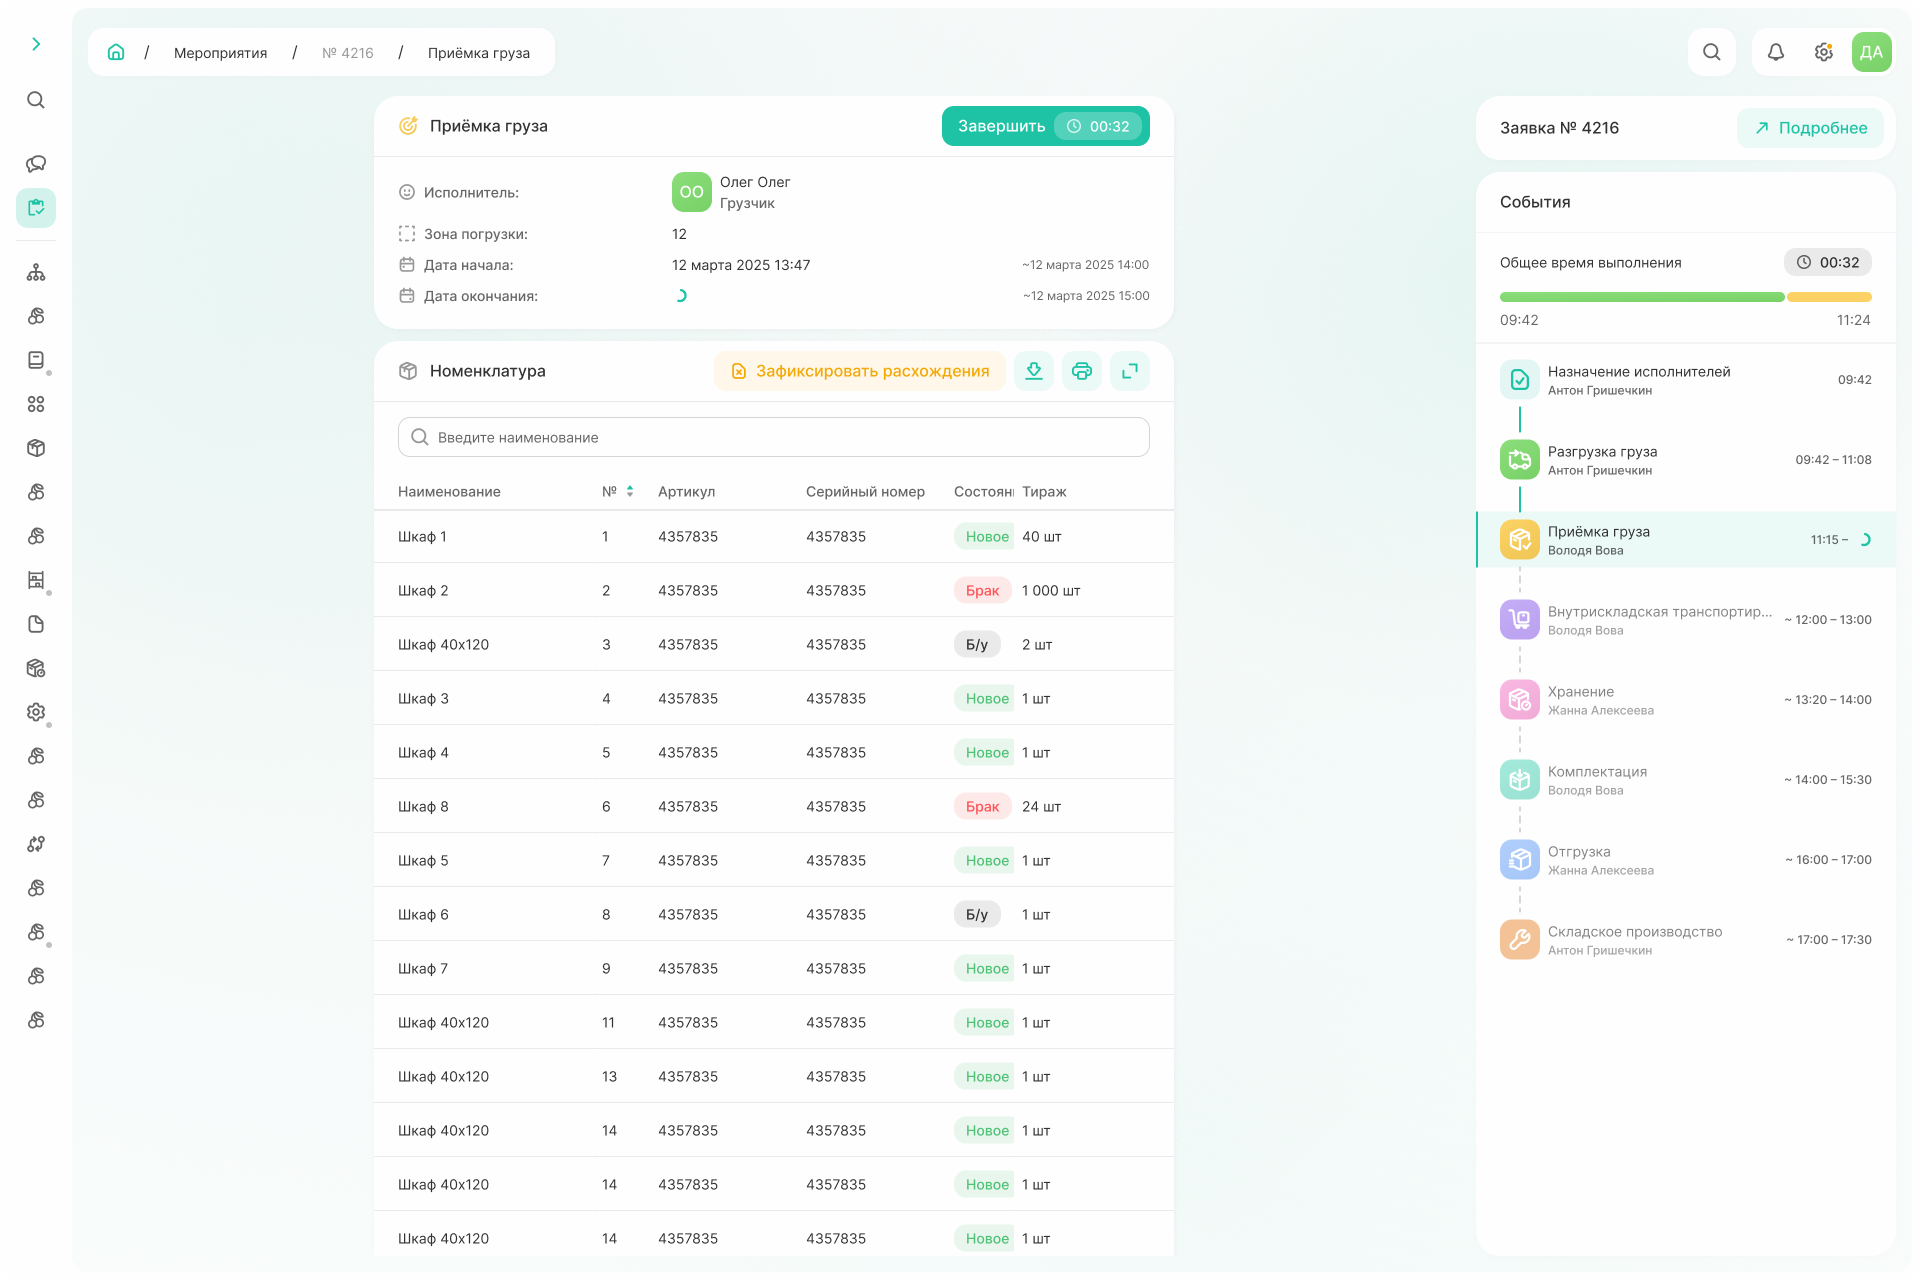
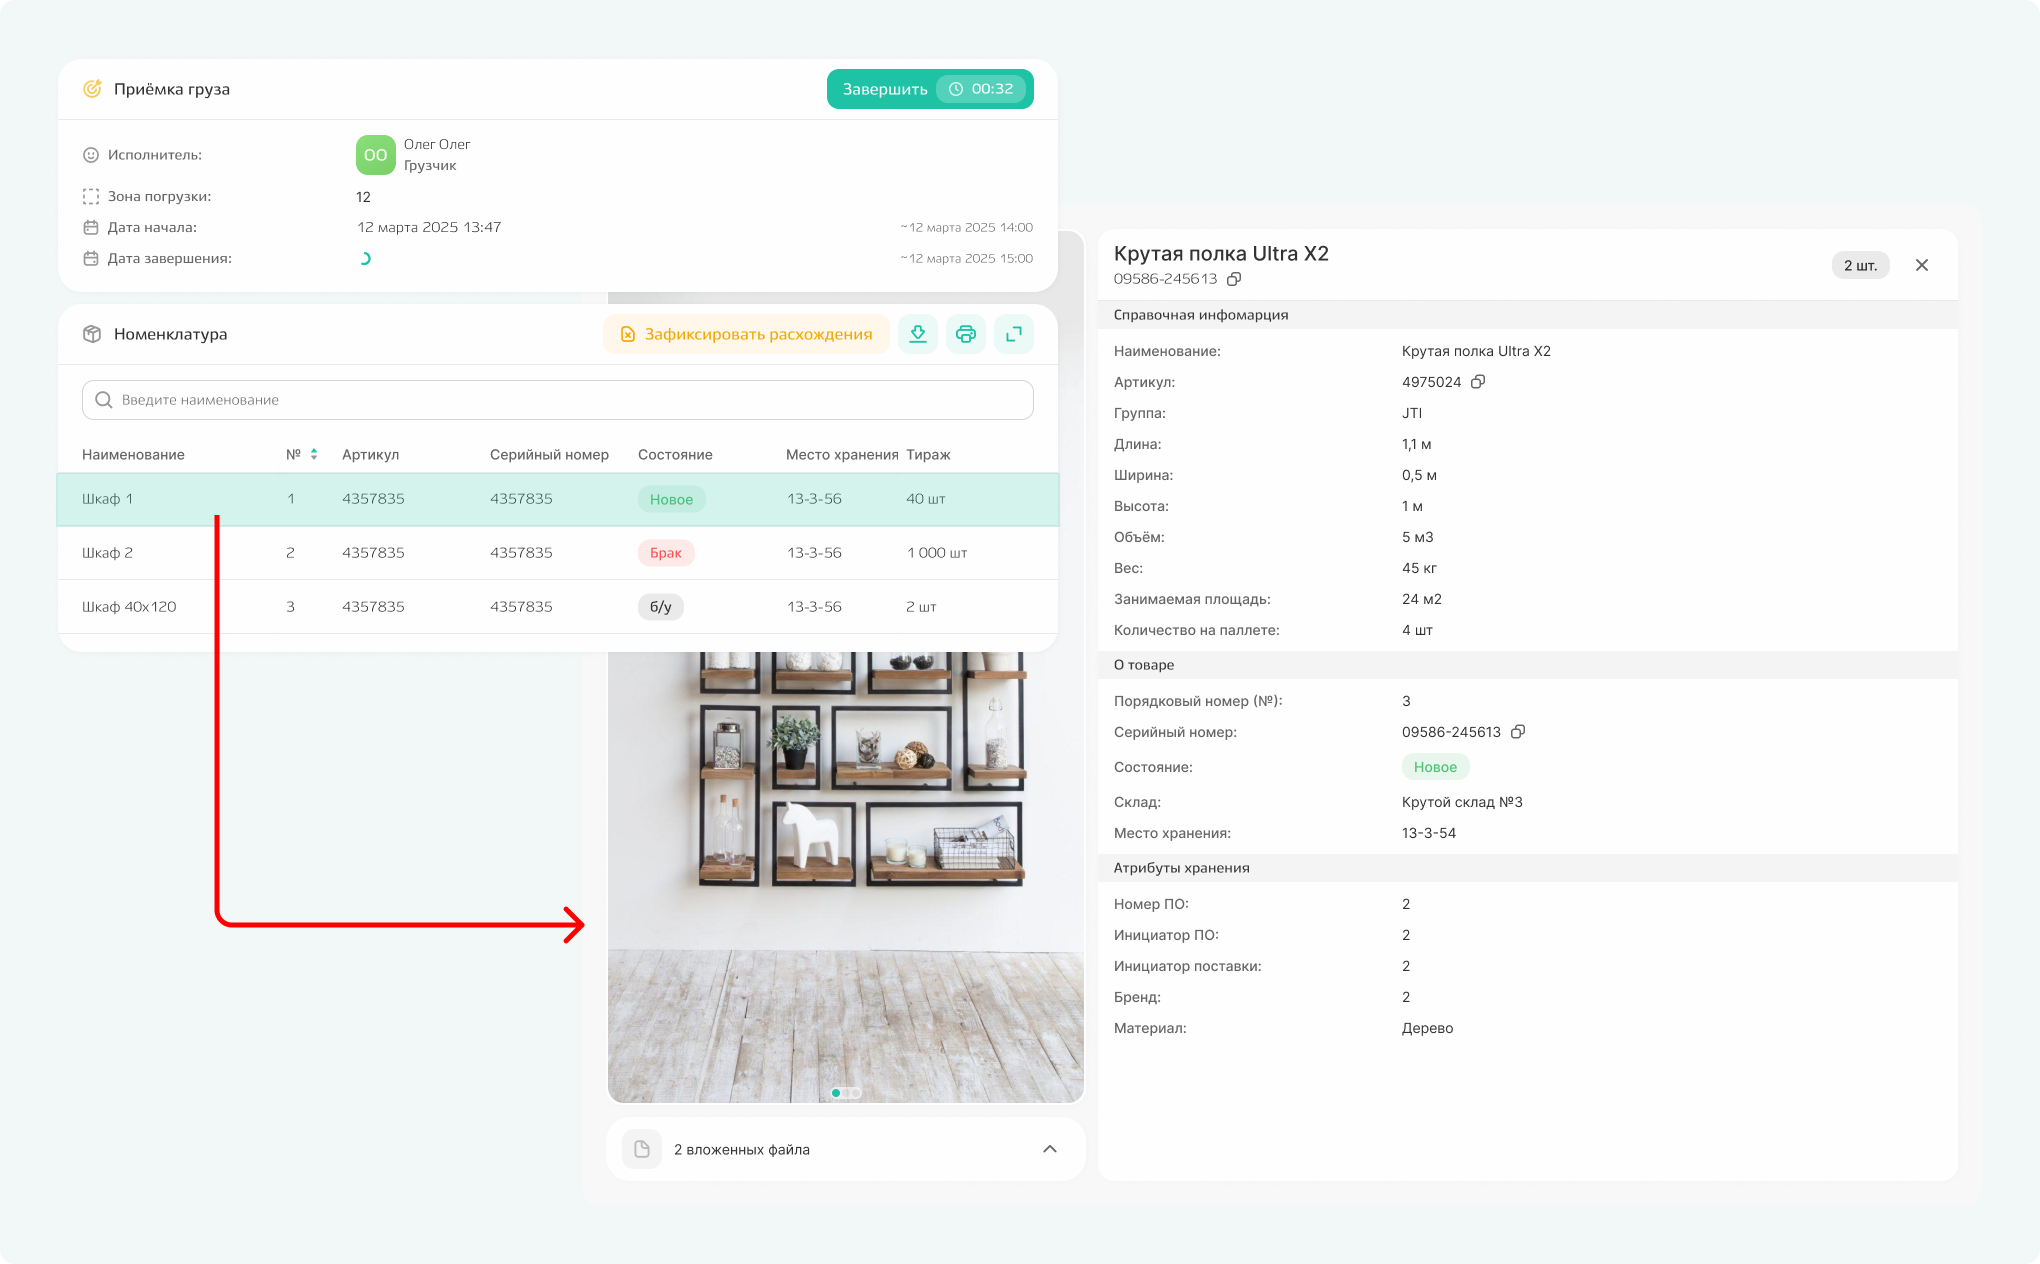
how to task third draft

diff --git a/docs/ru/how_to_task.md b/docs/ru/how_to_task.md
@@ -197,6 +197,17 @@
 
 ![_screen_task](_images/_screen_task_finish_4.png){.center width=1200}
 
+### Приёмка груза
+
+Событие приёмки груза также начинается со страницы, содержащей требуемую информацию для старта, и команду «Начать событие», по которой событие стартуется.
+
+В этом событии происходит проверка и фиксация количества и качества полученных товаров, а также выявление расхождений, которые были допущены ранее. Сверку можно осуществлять как по общему списку, так и кликая на каждую строчку и изучая информацию о каждой номенклатуре в открывающихся модальных окнах. 
+
+Если все верно, то событие завершается по команде «Завершить». 
+Если есть расхождения, их необходимо зафиксировать по команде «Зафиксировать расхождения».
+
+![_screen_task_warehouse_nomec](_images/_screen_task_warehouse_nomec.png){.center width=1200}
+
 
 [*key_storage]: Кросс-докинг — логистическая схема, по которой грузы принимаются на складе и тут же, без размещения в зоне длительного хранения, перегружаются для дальнейшей отправки конечному получателю.
 
